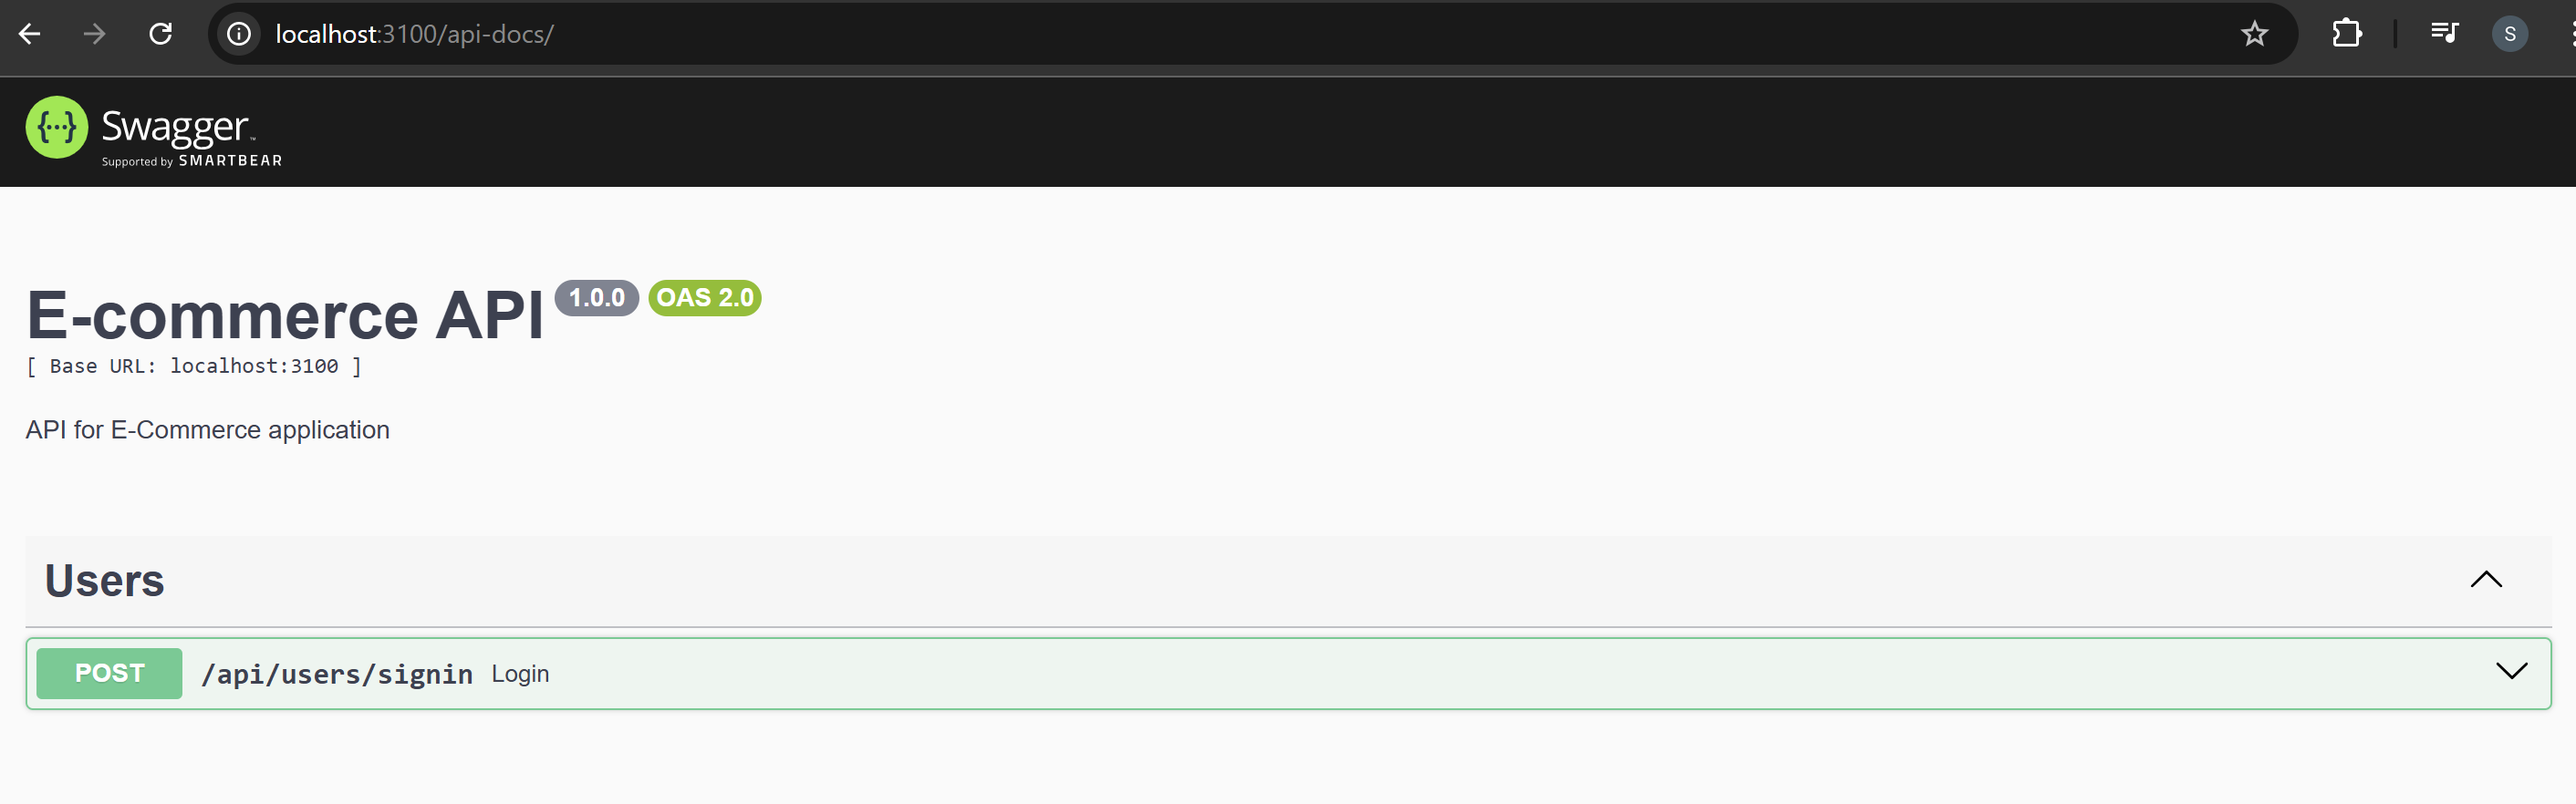
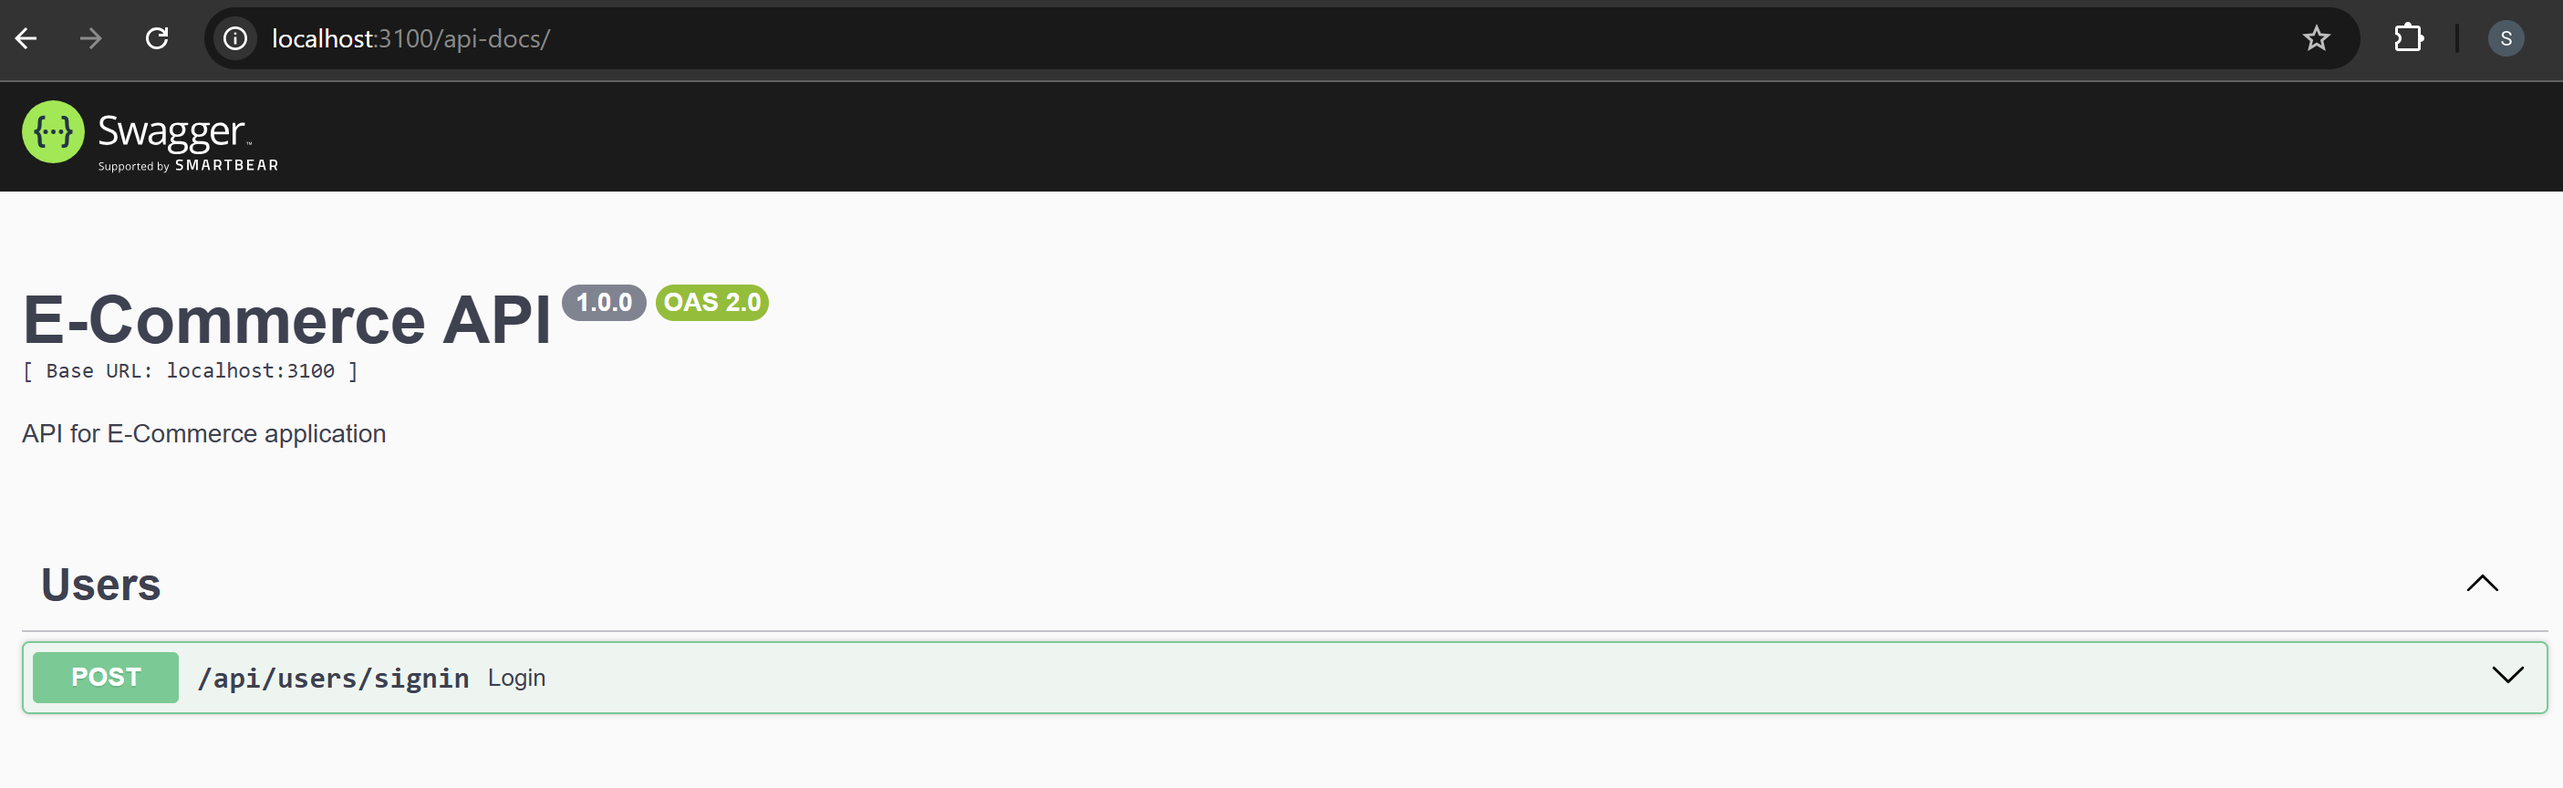
Added: Testing Swagger

diff --git a/E-Commerce APIs/docs/MORE-FEATURES.md b/E-Commerce APIs/docs/MORE-FEATURES.md
@@ -485,7 +485,7 @@ understand and interact with our APIs.
   "info": {
     "version": "1.0.0",
     "description": "API for E-Commerce application",
-    "title": "E-commerce API"
+    "title": "E-Commerce API"
   },
   "host": "localhost:3100",
   "paths": {
@@ -553,3 +553,110 @@ server.use("/api-docs", swagger.serve, swagger.setup(apiDocs));
 <img src="./images/swagger_api_docs1.png" alt="API Docs Swagger" width="700" height="auto">
 
 <img src="./images/swagger_post_api_users_signin.png" alt="Swagger User SignIn" width="700" height="auto">
+
+
+## Testing Swagger
+We have implemented Swagger in our Node.js Express application and created
+documentation for the sign-in API. Now, we will explore how to test our API using the
+Swagger UI.
+
+<img src="./images/swagger_api_docs2.png" alt="API Docs Swagger" width="700" height="auto">
+
+### Testing the Sign-In API
+1. In the Swagger UI, locate the sign-in API documentation.
+2. Click on "Try it out" and enter the predefined credentials.
+
+<img src="./images/swagger_userSignIn_execute.png" alt="Swagger User SignIn Execute" width="700" height="auto">
+
+3. Execute the request and verify the response.
+4. The response should include a token that can be used for subsequent API
+calls.
+
+<img src="./images/swagger_userSignIn_response.png" alt="Swagger User SignIn Response" width="700" height="auto">
+
+
+### Testing the Get-Products API
+1. Authorize: Copy the JWT token from the sign-in response, click "Authorize" at the top, paste the token, click the "Authorize" button, and then close.
+
+<img src="./images/swagger_authorize_jwtToken.png" alt="Swagger Authorize JWT token" width="700" height="auto">
+
+<img src="./images/swagger_authorization_success.png" alt="Swagger Authorization Successful" width="700" height="auto">
+
+2. Execute: Click "Try it out" for the Get Products API and execute.
+
+<img src="./images/swagger_getProducts_execute.png" alt="Swagger Get Products Execute" width="700" height="auto">
+
+3. Verify: If authorization is successful, the response includes all products for future API calls.
+
+<img src="./images/swagger_getProducts_response.png" alt="Swagger Get Products Response" width="700" height="auto">
+
+#### Updated 'swagger.json' file:
+```json
+{
+    "swagger":"2.0",
+    "info":{
+        "version":"1.0.0",
+        "description":"API for E-Commerce application",
+        "title":"E-Commerce API"
+    },
+    "host":"localhost:3100",
+    "securityDefinitions": {
+        "JWT":{
+            "in":"header",
+            "name": "Authorization",
+            "type": "apiKey"
+        }
+    },
+    "paths":{
+        "/api/products": {
+            "get":{
+                "tags": ["Products"],
+                "summary":"Get Products",
+                "description":"User will get all products",
+                "security" : [{"JWT": {}}],
+                "responses":{
+                    "200": {
+                        "description":"OK"
+                    },
+                    "401": {
+                        "description": "Unauthorized"
+                    }
+                }
+            }
+        },
+        "/api/users/signin": {
+            "post":{
+                "tags": ["Users"],
+                "summary":"Login",
+                "description":"User login to get token",
+                "parameters":[
+                    {
+                        "in":"body",
+                        "name":"body",
+                        "description":"User Credentials",
+                        "schema": {
+                            "type": "object",
+                            "properties": {
+                                "email":{
+                                    "type": "string"
+                                },
+                                "password":{
+                                    "type": "string"
+                                }
+                            }
+                        }
+                    }
+                ],
+                "responses":{
+                    "200": {
+                        "description":"OK"
+                    },
+                    "400": {
+                        "description": "Invalid Credentials !"
+                    }
+                }
+            }
+        }
+    }
+}
+```
